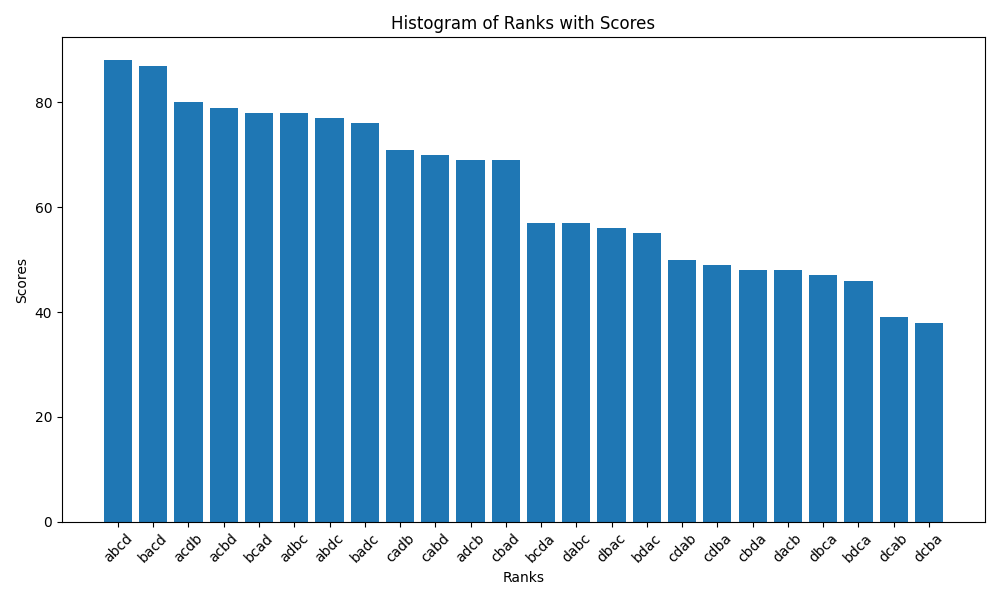
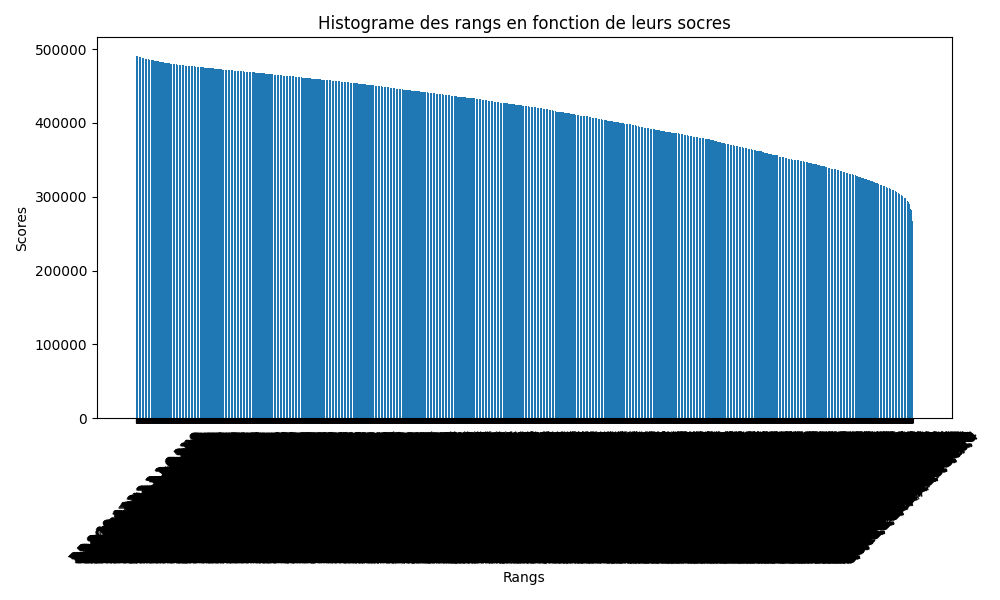
fix young bugz

diff --git a/kemenyYoung.py b/kemenyYoung.py
@@ -3,14 +3,12 @@ import matplotlib.pyplot as plt
 
 def kemenyYoung(data):
 
-    print(data[0])
-
     pair_matrix = {}
 
     for candidate1 in data[0]:
         for candidate2 in data[0]:
             if candidate1 != candidate2:  # To avoid pairs like ('a', 'a')
-                key = candidate1 + candidate2
+                key = str(candidate1) + "x" + str(candidate2)
                 pair_matrix[key] = 0
 
 
@@ -18,25 +16,39 @@ def kemenyYoung(data):
         for i in range(0, len(data[col]) - 1):
             for j in range(i + 1, len(data[col])):
                 if i != j:
-                    key = data[col][i] + data[col][j]
+                    key = str(data[col][i]) + "x" + str(data[col][j])
                     pair_matrix[key] += 1
 
 
     print(pair_matrix)
-    ranks = list(itertools.permutations(data[0]))
+    #ranks = list(itertools.permutations(data[0]))
+    ranks = list()
+    for col in data:
+        temp = list()
+        for i in range(0, len(data[col])):
+            temp.append(data[col][i])
+        if temp not in ranks:
+            ranks.append(temp)
+    print(ranks)
 
     #sum_dominating_pairs(ranks[0], pair_matrix)
 
     ranks_score = {}
 
     for rank in ranks:
-        ranks_score[rank] = sum_dominating_pairs(rank, pair_matrix)
+        key = ""
+        for letter in rank:
+            key += str(letter)
+            key += ","
+        key = key[:-1]
+        ranks_score[key] = sum_dominating_pairs(rank, pair_matrix)
         #dominating_pairs_sum = sum_dominating_pairs(rank, pair_matrix)
 
-    print(ranks_score)
-    print(max(ranks_score, key=ranks_score.get))
-
     ranks_score = dict(sorted(ranks_score.items(), key=lambda item: item[1], reverse=True))
+
+    print("ranks ranks:", ranks_score)
+
+    print("Ranks score:", max(ranks_score, key=ranks_score.get))
 
     # Extract keys and values for plotting
     keys = ["".join(rank) for rank in ranks_score.keys()]
@@ -45,9 +57,9 @@ def kemenyYoung(data):
     # Plotting
     plt.figure(figsize=(10, 6))
     plt.bar(keys, values)
-    plt.xlabel('Ranks')
+    plt.xlabel('Rangs')
     plt.ylabel('Scores')
-    plt.title('Histogram of Ranks with Scores')
+    plt.title('Histograme des rangs en fonction de leurs socres')
     plt.xticks(rotation=45)
     plt.tight_layout()
     plt.savefig('fig_kemenyYoung/histoKemenyYoung.png')
@@ -58,7 +70,7 @@ def sum_dominating_pairs(rank, pair_scores):
     rank_score = 0
     for i in range(0, len(rank) - 1):
         for j in range(i+1, len(rank)):
-            key = rank[i] + rank[j]
+            key = str(rank[i]) + "x" + str(rank[j])
             if key in pair_scores.keys():
                 rank_score += pair_scores[key]
     return rank_score

diff --git a/main.py b/main.py
@@ -94,8 +94,8 @@ condorcet(data_vote)
 # -------------------
 # Kemeny-Young
 # -------------------
-#print("---------- Vote Kemeny-Young ----------")
-#(top_kemenyYoung, rank_kemenyYoung) = kemenyYoung(data_vote)
+print("---------- Vote Kemeny-Young ----------")
+(top_kemenyYoung, rank_kemenyYoung) = kemenyYoung(data_vote)
 
 # -------------------
 # Copeland
